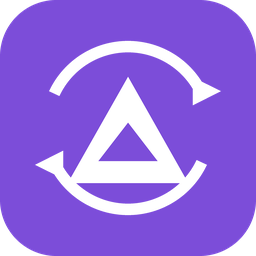
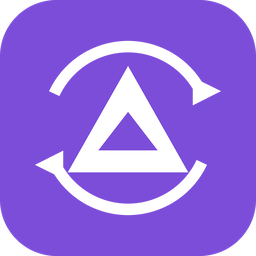
Lift the delta so it reads as centred
A triangle's mass sits near its base, so centring its bounding box leaves it
looking like it has sagged -- next to a geometrically centred ring, that reads
as an alignment error rather than as a shape.

Two measurable targets bracket the answer and neither works alone. Centring the
bounding box (lift ~0.008) is what it had, and the mass is visibly low. Centring
the rendered centroid (0.074) puts the apex hard against the top arc and opens a
gap under the base, because inside a ring the eye compares the gaps, not the
mass. 0.042 sits between them: 67px of clearance above the apex against 84px
below, with the centroid 8px low.

Measured off the rendered output rather than judged by eye, since the whole
problem is that the eye and the geometry disagree here.

Changed region(s): [[0.25, 0.25, 0.75, 0.7188]]

diff --git a/tools/make_icon.py b/tools/make_icon.py
@@ -29,6 +29,18 @@ SIZES = (256, 128, 64, 48, 32, 16)
 DELTA_PURPLE = (124, 77, 217, 255)
 DELTA_PURPLE_DARK = (86, 50, 160, 255)
 RING = (255, 255, 255, 128)
+
+#: A triangle's visual mass sits low -- most of its area is near the base -- so
+#: centring its bounding box makes it look like it has sagged. Lifting it by a
+#: few percent of the icon reads as centred. The ring is geometrically centred,
+#: which makes any sag on the delta obvious by comparison.
+#:
+#: The value is a compromise between two measurable targets, because neither
+#: alone looks right. Centring the bounding box (lift ~0.008) leaves the mass
+#: visibly low. Centring the centroid (lift 0.074) puts the apex hard against
+#: the top arc with an obvious gap under the base, because inside a ring the
+#: eye reads the gaps, not the mass. This sits between them.
+OPTICAL_LIFT = 0.042
 WHITE = (255, 255, 255, 255)
 
 
@@ -71,9 +83,10 @@ def delta(draw: ImageDraw.ImageDraw, size: int, *, bold: bool) -> None:
     triangle fills the space the ring vacated instead of floating in it.
     """
     centre = size / 2
+    lift = size * OPTICAL_LIFT
     half_width = size * (0.315 if bold else 0.235)
-    top = size * (0.235 if bold else 0.30)
-    bottom = size * (0.775 if bold else 0.715)
+    top = size * (0.235 if bold else 0.30) - lift
+    bottom = size * (0.775 if bold else 0.715) - lift
     stroke = max(2, int(size * (0.105 if bold else 0.075)))
 
     outer = [(centre, top), (centre + half_width, bottom), (centre - half_width, bottom)]
